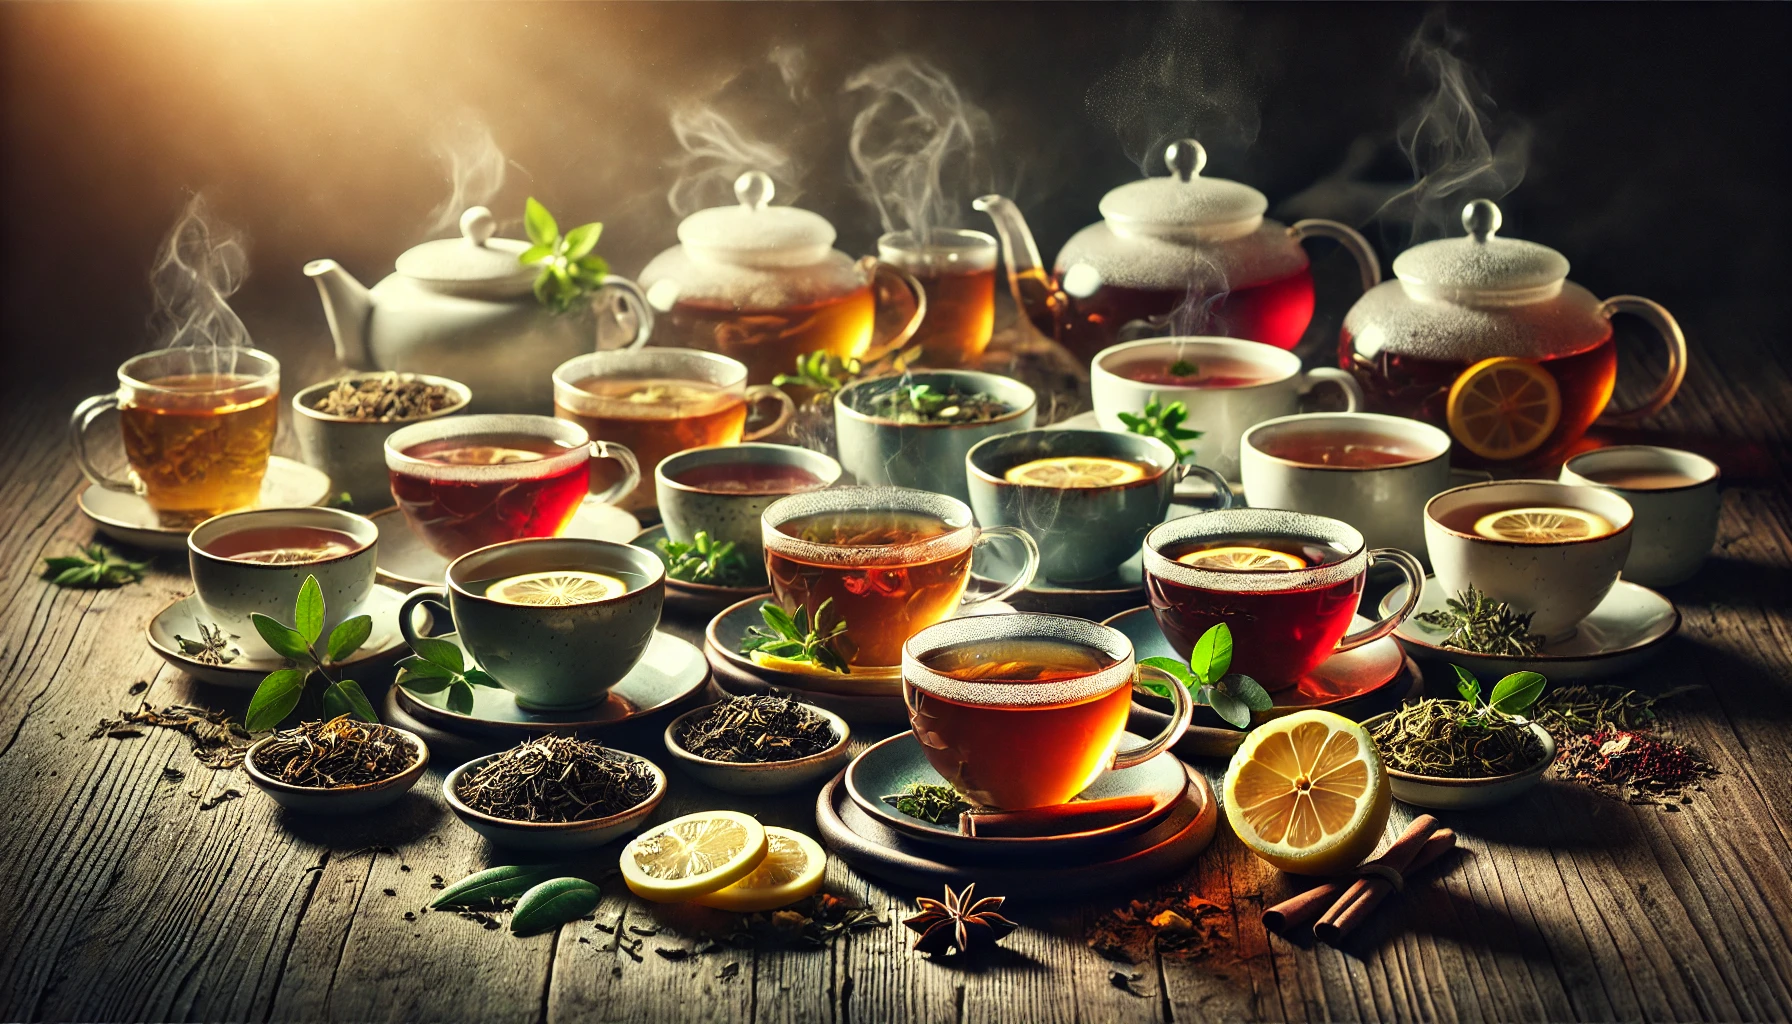
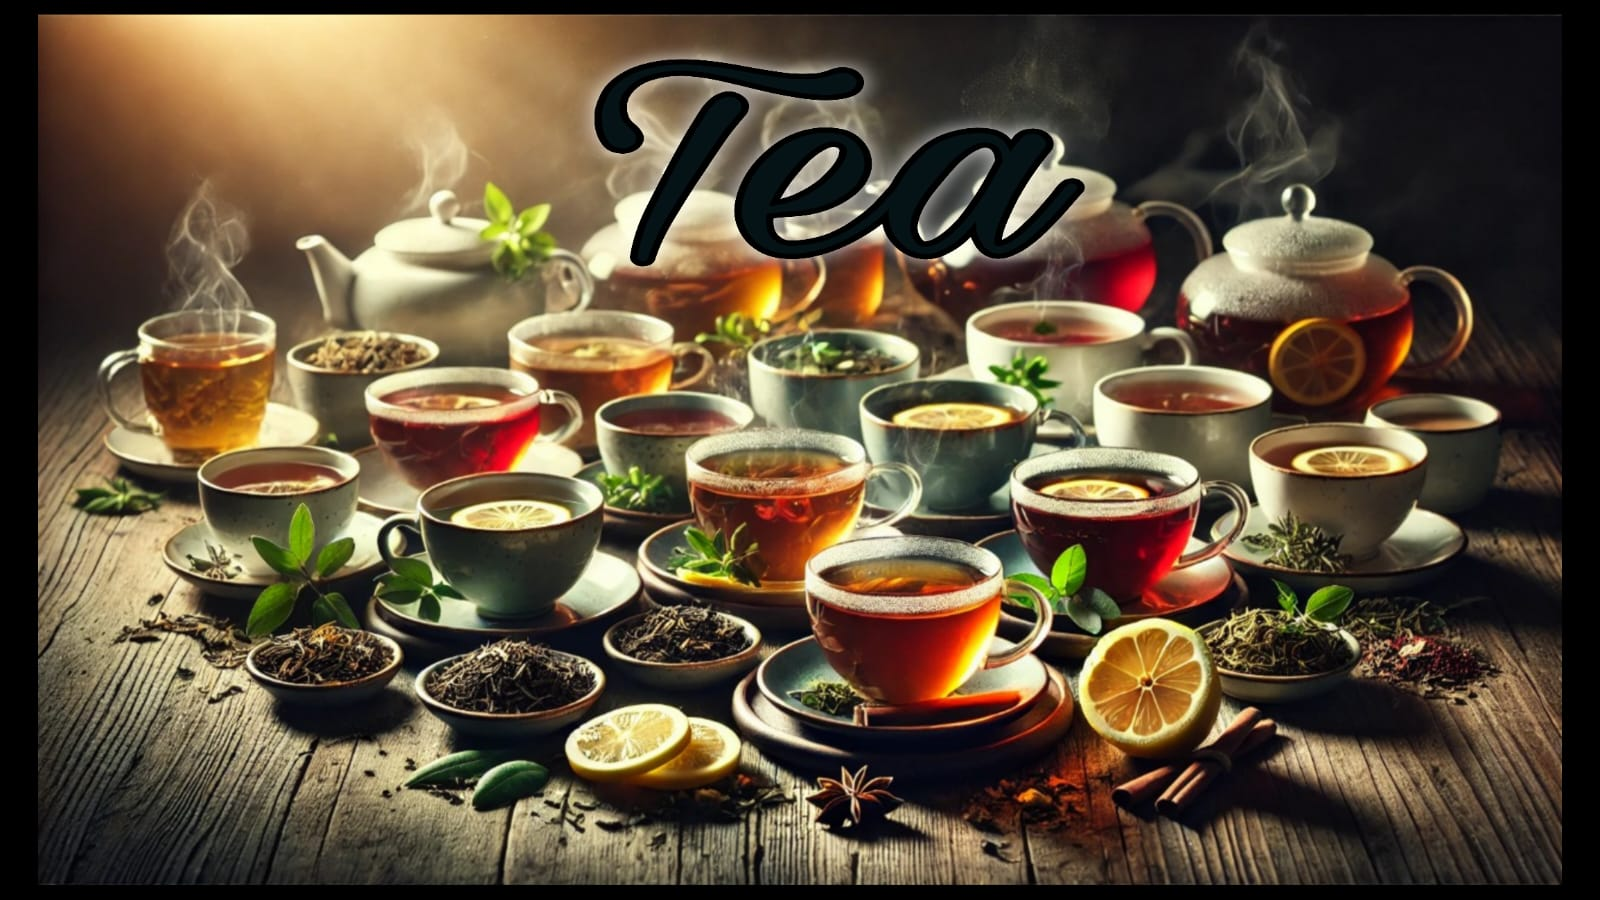
Add files via upload

diff --git a/Tea.html b/Tea.html
@@ -1,0 +1,117 @@
+<!DOCTYPE html>
+<html lang="en">
+<head>
+    <meta charset="UTF-8">
+    <meta name="viewport" content="width=device-width, initial-scale=1.0">
+    <title>Document</title>
+    <link rel="stylesheet" href="coffee.css">
+</head>
+<body>
+  <h1 class="heading">Tea</h1>
+  <div class="container">
+    <div class="card">
+      <img class="card__img" src="Iced Green Tea Latte.jpg" >
+        <div class="card__title">Iced Green Tea Latte</div>
+        <div class="card__subtitle">TALL()</div>
+        <div class="description">Smooth and creamy matcha is lightly sweetened and served wit...</div>
+        <div class="card__wrapper">
+            <div class="card__price">₹299</div>
+            <div class="button">
+            <div class="button-wrapper">
+              <div class="text">Order</div>
+                <span class="icon">
+                  <svg viewBox="0 0 16 16" class="bi bi-cart2" fill="currentColor" height="16" width="16" xmlns="http://www.w3.org/2000/svg">
+                  <path d="M0 2.5A.5.5 0 0 1 .5 2H2a.5.5 0 0 1 .485.379L2.89 4H14.5a.5.5 0 0 1 .485.621l-1.5 6A.5.5 0 0 1 13 11H4a.5.5 0 0 1-.485-.379L1.61 3H.5a.5.5 0 0 1-.5-.5zM3.14 5l1.25 5h8.22l1.25-5H3.14zM5 13a1 1 0 1 0 0 2 1 1 0 0 0 0-2zm-2 1a2 2 0 1 1 4 0 2 2 0 0 1-4 0zm9-1a1 1 0 1 0 0 2 1 1 0 0 0 0-2zm-2 1a2 2 0 1 1 4 0 2 2 0 0 1-4 0z"></path>
+                  </svg>
+                </span>
+              </div>
+          </div>    
+      </div>
+    </div>
+    <div class="card">
+        <img class="card__img" src="Chai Tea Latte.jpg" >
+          <div class="card__title">Chai Tea Latte</div>
+          <div class="card__subtitle">SHORT(237 ml) .170 kcal</div>
+          <div class="description">Black tea infused with cinnamon, clove, and other warming sp...</div>
+          <div class="card__wrapper">
+              <div class="card__price">₹349</div>
+              <div class="button">
+              <div class="button-wrapper">
+                <div class="text">Order</div>
+                  <span class="icon">
+                    <svg viewBox="0 0 16 16" class="bi bi-cart2" fill="currentColor" height="16" width="16" xmlns="http://www.w3.org/2000/svg">
+                    <path d="M0 2.5A.5.5 0 0 1 .5 2H2a.5.5 0 0 1 .485.379L2.89 4H14.5a.5.5 0 0 1 .485.621l-1.5 6A.5.5 0 0 1 13 11H4a.5.5 0 0 1-.485-.379L1.61 3H.5a.5.5 0 0 1-.5-.5zM3.14 5l1.25 5h8.22l1.25-5H3.14zM5 13a1 1 0 1 0 0 2 1 1 0 0 0 0-2zm-2 1a2 2 0 1 1 4 0 2 2 0 0 1-4 0zm9-1a1 1 0 1 0 0 2 1 1 0 0 0 0-2zm-2 1a2 2 0 1 1 4 0 2 2 0 0 1-4 0z"></path>
+                    </svg>
+                  </span>
+                </div>
+            </div>    
+        </div>
+      </div>
+    <div class="card">
+        <img class="card__img" src="English Breakfast Black Tea.jpg" >
+          <div class="card__title">English Breakfast Black Tea</div>
+          <div class="card__subtitle">TALL()</div>
+          <div class="description">A breakfast-style black tea of malty boldness & bright flavo...</div>
+          <div class="card__wrapper">
+              <div class="card__price">₹299</div>
+              <div class="button">
+              <div class="button-wrapper">
+                <div class="text">Order</div>
+                  <span class="icon">
+                    <svg viewBox="0 0 16 16" class="bi bi-cart2" fill="currentColor" height="16" width="16" xmlns="http://www.w3.org/2000/svg">
+                    <path d="M0 2.5A.5.5 0 0 1 .5 2H2a.5.5 0 0 1 .485.379L2.89 4H14.5a.5.5 0 0 1 .485.621l-1.5 6A.5.5 0 0 1 13 11H4a.5.5 0 0 1-.485-.379L1.61 3H.5a.5.5 0 0 1-.5-.5zM3.14 5l1.25 5h8.22l1.25-5H3.14zM5 13a1 1 0 1 0 0 2 1 1 0 0 0 0-2zm-2 1a2 2 0 1 1 4 0 2 2 0 0 1-4 0zm9-1a1 1 0 1 0 0 2 1 1 0 0 0 0-2zm-2 1a2 2 0 1 1 4 0 2 2 0 0 1-4 0z"></path>
+                    </svg>
+                  </span>
+                </div>
+            </div>    
+        </div>
+      </div>
+    <div class="card">
+      <img class="card__img" src="Emperor'S Clouds And Mist Green Tea.jpg" >
+        <div class="card__title">Emperor'S Clouds And Mist Green Tea</div>
+        <div class="card__subtitle">ALL(354 ml) .0 kcal</div>
+        <div class="description">Receiving plenty of rain during the early spring harvest, th...</div>
+        <div class="card__wrapper">
+            <div class="card__price">₹199</div>
+            <div class="button">
+            <div class="button-wrapper">
+              <div class="text">Order</div>
+                <span class="icon">
+                  <svg viewBox="0 0 16 16" class="bi bi-cart2" fill="currentColor" height="16" width="16" xmlns="http://www.w3.org/2000/svg">
+                  <path d="M0 2.5A.5.5 0 0 1 .5 2H2a.5.5 0 0 1 .485.379L2.89 4H14.5a.5.5 0 0 1 .485.621l-1.5 6A.5.5 0 0 1 13 11H4a.5.5 0 0 1-.485-.379L1.61 3H.5a.5.5 0 0 1-.5-.5zM3.14 5l1.25 5h8.22l1.25-5H3.14zM5 13a1 1 0 1 0 0 2 1 1 0 0 0 0-2zm-2 1a2 2 0 1 1 4 0 2 2 0 0 1-4 0zm9-1a1 1 0 1 0 0 2 1 1 0 0 0 0-2zm-2 1a2 2 0 1 1 4 0 2 2 0 0 1-4 0z"></path>
+                  </svg>
+                </span>
+              </div>
+          </div>    
+      </div>
+    </div>
+    <div class="card">
+        <img class="card__img" src="Iced Emperor'S Clouds And Mist Green Tea.jpg" >
+          <div class="card__title">Iced Emperor'S Clouds And Mist Green Tea</div>
+          <div class="card__subtitle">419 Kcal</div>
+          <div class="description">Espresso combined  with bittersweet mocha sauce and milk</div>
+          <div class="card__wrapper">
+              <div class="card__price">₹249</div>
+              <div class="button">
+              <div class="button-wrapper">
+                <div class="text">Order</div>
+                  <span class="icon">
+                    <svg viewBox="0 0 16 16" class="bi bi-cart2" fill="currentColor" height="16" width="16" xmlns="http://www.w3.org/2000/svg">
+                    <path d="M0 2.5A.5.5 0 0 1 .5 2H2a.5.5 0 0 1 .485.379L2.89 4H14.5a.5.5 0 0 1 .485.621l-1.5 6A.5.5 0 0 1 13 11H4a.5.5 0 0 1-.485-.379L1.61 3H.5a.5.5 0 0 1-.5-.5zM3.14 5l1.25 5h8.22l1.25-5H3.14zM5 13a1 1 0 1 0 0 2 1 1 0 0 0 0-2zm-2 1a2 2 0 1 1 4 0 2 2 0 0 1-4 0zm9-1a1 1 0 1 0 0 2 1 1 0 0 0 0-2zm-2 1a2 2 0 1 1 4 0 2 2 0 0 1-4 0z"></path>
+                    </svg>
+                  </span>
+                </div>
+            </div>    
+        </div>
+      </div>
+    </div>
+    
+    
+      
+     
+          
+  </div>
+  
+
+</body>
+</html>
